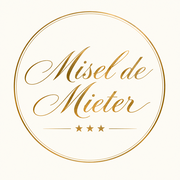
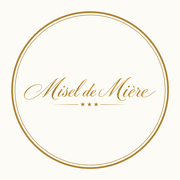
ロゴ変更

diff --git a/index.html b/index.html
@@ -3,7 +3,7 @@
 <head>
 <meta charset="utf-8">
 <meta name="viewport" content="width=device-width, initial-scale=1, viewport-fit=cover">
-<title>ミセル・ド・ミエテル</title>
+<title>ミセル・ド・ミエール</title>
 <meta name="description" content="眼鏡の処方値（S・C・AX）と周りの明るさから、裸眼での見え方を映像で再現するジョークアプリ。">
 <meta name="theme-color" content="#e9eef0" media="(prefers-color-scheme: light)">
 <meta name="theme-color" content="#0f1416" media="(prefers-color-scheme: dark)">
@@ -14,7 +14,7 @@
 <meta name="apple-mobile-web-app-capable" content="yes">
 <meta name="mobile-web-app-capable" content="yes">
 <meta name="apple-mobile-web-app-status-bar-style" content="default">
-<meta name="apple-mobile-web-app-title" content="Misel de Mieter">
+<meta name="apple-mobile-web-app-title" content="Misel de Mière">
 <link rel="preconnect" href="https://fonts.googleapis.com">
 <link rel="preconnect" href="https://fonts.gstatic.com" crossorigin>
 <link rel="stylesheet" href="https://fonts.googleapis.com/css2?family=IBM+Plex+Mono:wght@500&family=Shippori+Mincho+B1:wght@700&family=Zen+Kaku+Gothic+New:wght@400;700&display=swap">
@@ -53,7 +53,7 @@ header{display:flex;justify-content:space-between;align-items:flex-start;gap:12p
 header h1{margin:0;display:flex;flex-wrap:wrap;align-items:flex-end;gap:4px 14px;font-weight:400}
 .logo-wrap{position:relative;display:block;width:clamp(190px,52vw,380px);line-height:0}
 .logo{width:100%;height:auto;display:block}
-#stars{position:absolute;left:39.48%;top:68.74%;width:20.11%;height:44.13%;pointer-events:none}
+#stars{position:absolute;left:39.05%;top:67.42%;width:21.11%;height:46.38%;pointer-events:none}
 header .fr{font-family:var(--f-display);font-size:clamp(2.1rem,7vw,3.4rem);line-height:1.1;letter-spacing:.01em}
 header .kana{font-family:var(--f-body);font-size:.85rem;color:var(--muted);letter-spacing:.12em}
 header p{margin:4px 0 0;color:var(--muted);font-size:.95rem}
@@ -128,7 +128,7 @@ input[type=range]{width:100%;accent-color:var(--accent);margin:0;padding-block:1
   <main class="grid">
     <section class="stage">
       <header>
-        <h1><span class="logo-wrap"><img class="logo" src="assets/logo.png" alt="Misel de Mieter" width="900" height="213"><canvas id="stars" width="181" height="94" aria-hidden="true"></canvas></span><span class="kana">ミセル・ド・ミエテル</span></h1>
+        <h1><span class="logo-wrap"><img class="logo" src="assets/logo.png" alt="Misel de Mière" width="900" height="207"><canvas id="stars" width="190" height="96" aria-hidden="true"></canvas></span><span class="kana">ミセル・ド・ミエール</span></h1>
         <button id="theme" type="button" aria-label="ダークモードに切り替える">
           <svg class="i-moon" viewBox="0 0 24 24" width="20" height="20" aria-hidden="true"><path d="M20 14.5A8 8 0 0 1 9.5 4a8 8 0 1 0 10.5 10.5z" fill="currentColor"/></svg>
           <svg class="i-sun" viewBox="0 0 24 24" width="20" height="20" aria-hidden="true"><circle cx="12" cy="12" r="4.2" fill="currentColor"/><g stroke="currentColor" stroke-width="2" stroke-linecap="round"><path d="M12 2.5v2.2M12 19.3v2.2M2.5 12h2.2M19.3 12h2.2M5.3 5.3l1.6 1.6M17.1 17.1l1.6 1.6M5.3 18.7l1.6-1.6M17.1 6.9l1.6-1.6"/></g></svg>

diff --git a/README.md b/README.md
@@ -1,4 +1,4 @@
-# Misel de Mieter（ミセル・ド・ミエテル）
+# Misel de Mière（ミセル・ド・ミエール）
 
 眼鏡の処方値を入れると、裸眼でどう見えているかを映像で再現するジョークアプリです。
 
